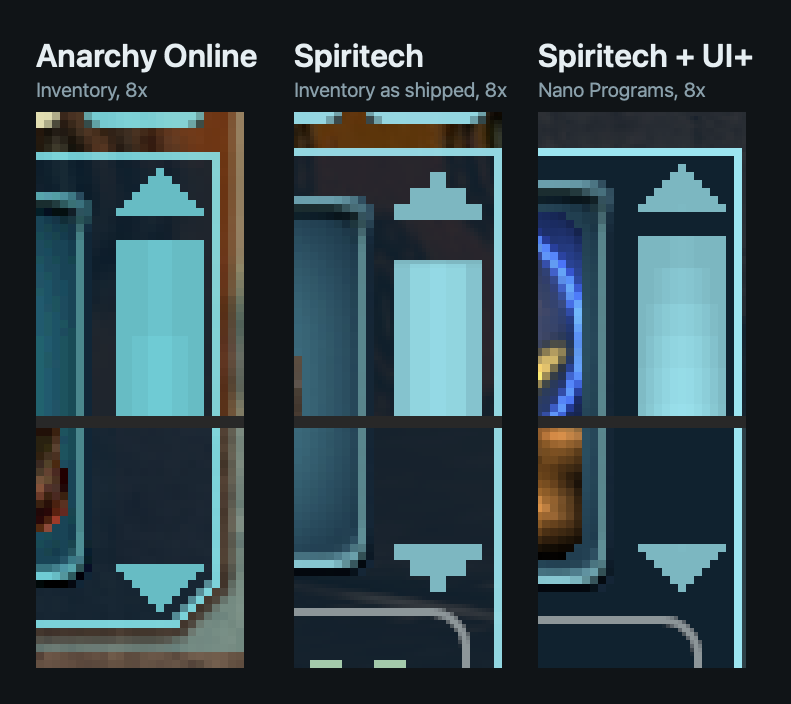
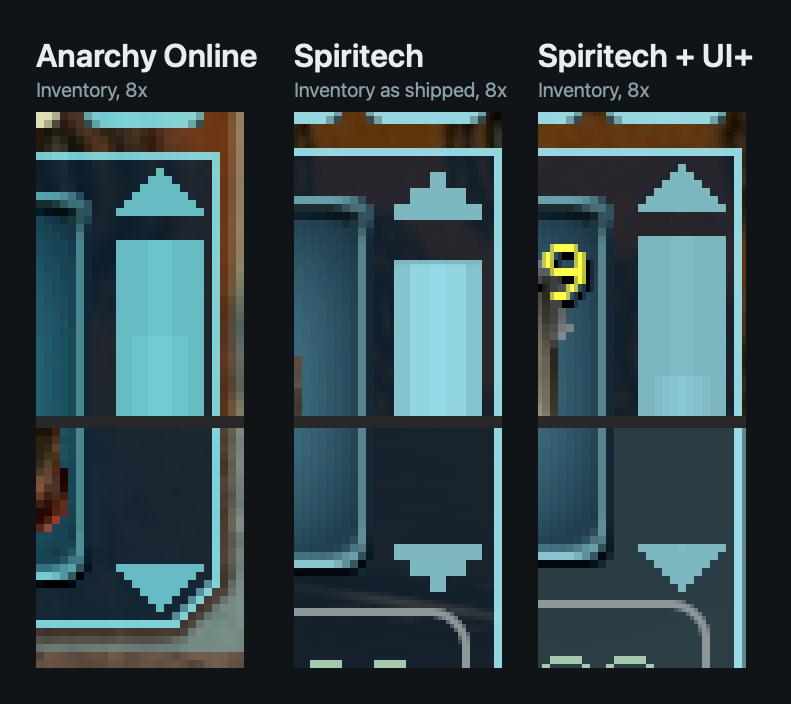
docs: show the Inventory with the original client's scroll bar

diff --git a/docs/changes.md b/docs/changes.md
@@ -121,24 +121,25 @@ as shipped. The original client's picture has no nano running.
 ## Inventory: search and slot count
 
 UI+ replaces the Inventory window (Options > Interface & HUD > UI packages, "duramson.inventory"), the one package the
-client draws the inventory, bags, banks and loot with. So far it only takes out what got in the way: the tooltips on the
+client draws the inventory, bags, banks and loot with. So far it takes out what got in the way: the tooltips on the
 search field ("Item name, at least three letters, then Enter") and on the slot count ("Slots holding an item, of all
 slots") only repeated what they show, and the search's opened right over the slot count and ran far past the window's
-edge. The count reads "24 / 30", without "Slots: " in front. The rest of the window is the bundled one. There is no
-picture of it yet.
+edge. The count reads "24 / 30", without "Slots: " in front. The scroll bar is the original client's (see Scroll bar
+below). The rest of the window is the bundled one.
 
 - [15d653f](https://github.com/duramson/spiritech-ui-plus/commit/15d653f) feat(inventory): offer an Inventory window
   without the search and slot tooltips
 
 ## Scroll bar
 
-The scroll bar of the NCU window and of the Nano Programs grid. Spiritech draws its own: arrows in three steps, 2 pixels
-under the frame's line and 5 from the bar. UI+ puts the original client's in its place, built from its own pictures
-(GFX_GUI_SIMPLE_SB_*, which Spiritech has too): the arrows are smooth triangles 11 pixels wide and 6 high, a pixel
-under the frame's line and a pixel clear of the line on the right, 3 pixels from the bar. The arrows scroll a row and
-repeat while held, a press above or below the bar pages that way, and the bar can be dragged. The bar picture is
-stretched to its length, a little softer than in the original client. The Inventory window keeps Spiritech's scroll bar
-for now, so the picture shows the original client's and Spiritech's Inventory beside UI+'s Nano Programs.
+The scroll bar of the NCU window, the Nano Programs grid and the Inventory window. Spiritech draws its own: arrows in
+three steps, 2 pixels under the frame's line and 5 from the bar. UI+ puts the original client's in its place, built
+from its own pictures (GFX_GUI_SIMPLE_SB_*, which Spiritech has too): the arrows are smooth triangles 11 pixels wide
+and 6 high, a pixel under the frame's line and a pixel clear of the line on the right, 3 pixels from the bar. The arrows
+scroll a row and repeat while held, a press above or below the bar pages that way, and the bar can be dragged. The bar
+picture is stretched to its length, a little softer than in the original client. In the Inventory the bar stands 4
+pixels clear of the slots, as there, and the grid gives up the bar's width only while the bar shows. The picture shows
+the Inventory window in all three.
 
 ![Scroll bar at eight times its size: Anarchy Online, Spiritech as shipped, Spiritech with UI+](images/scroll-bar.png)
 
@@ -148,6 +149,8 @@ for now, so the picture shows the original client's and Spiritech's Inventory be
   client's scroll bar
 - [aead52d](https://github.com/duramson/spiritech-ui-plus/commit/aead52d) fix(nano-programs): give the grid the
   original client's scroll bar
+- [3e4521f](https://github.com/duramson/spiritech-ui-plus/commit/3e4521f) fix(inventory): give the grid the original
+  client's scroll bar
 
 ## Not done yet
 

diff --git a/README.md b/README.md
@@ -25,17 +25,17 @@ Pieces many windows share. Each gets the original client's look once, for every 
 | Element | Progress | |
 | --- | --- | --- |
 | Window frame | `▰▰▰▰▰▰▰▰▰▰` 100 % | Done. |
-| Scroll bar | `▰▰▰▰▰▰▰▱▱▱` 70 % | In the NCU and Nano Programs windows: the original client's own pictures, smooth arrows, placed as there. The Inventory next. |
+| Scroll bar | `▰▰▰▰▰▰▰▰▱▱` 80 % | In the NCU, Nano Programs and Inventory windows: the original client's own pictures, smooth arrows, placed as there. Other windows' lists and a less stretched bar picture still to come. |
 
 ## What works now
 
 | | What it does | How to turn it on |
 | --- | --- | --- |
 | **Window frame** | Every window's frame, title tab, icon, pin and close button at the original client's sizes, distances and opacity, measured from pictures of its windows. | Nothing to do: it shows from the next character login. |
-| **Inventory** | The inventory, bags and banks without the tooltips that only repeated their search field and slot count, and the count as just "24 / 30". | Once: Options → Interface & HUD → UI packages, set Inventory containers to `External [duramson.inventory] — UI+`, then log the character in again. |
+| **Inventory** | The inventory, bags and banks with the original client's scroll bar, without the tooltips that only repeated their search field and slot count, and the count as just "24 / 30". | Once: Options → Interface & HUD → UI packages, set Inventory containers to `External [duramson.inventory] — UI+`, then log the character in again. |
 | **Nano Programs** | School buttons, tiles and search as the original client draws them, or a new School Tabs layout. | Once: Options → Interface & HUD → UI packages, set Nano Programs to `External [duramson.nano] — UI+`, then log the character in again. The window's menu (the i icon) switches between the two layouts. |
 | **NCU** | Slots, their spacing and the margins as in the original client's NCU window. | Nothing to do: it shows from the next character login. |
-| **Scroll bar** | The original client's scroll bar, from its own pictures: smooth arrows, a pixel clear of the frame's lines, 3 pixels from the bar. In the NCU and Nano Programs windows so far. | Comes with those windows. |
+| **Scroll bar** | The original client's scroll bar, from its own pictures: smooth arrows, a pixel clear of the frame's lines, 3 pixels from the bar. In the NCU, Nano Programs and Inventory windows so far. | Comes with those windows. |
 | **Notum Grotesk** | UI+'s own font: a modern, scalable take on the pixelated Verdana the original client draws its interface with, made on your computer ([more below](#notum-grotesk)). Notum Grotesk 200 is the same for Retina screens and 200 % scaling. | Say yes when the installer asks to generate it (only `install.py` so far), then pick Notum Grotesk as the interface font in Options (type "font" into its search), or Notum Grotesk 200 on a Retina screen or at 200 % scaling. |
 
 Not done yet: the Wear window (its tab labels come out too wide with Notum Grotesk: "Imp" for "Impl"), the other
